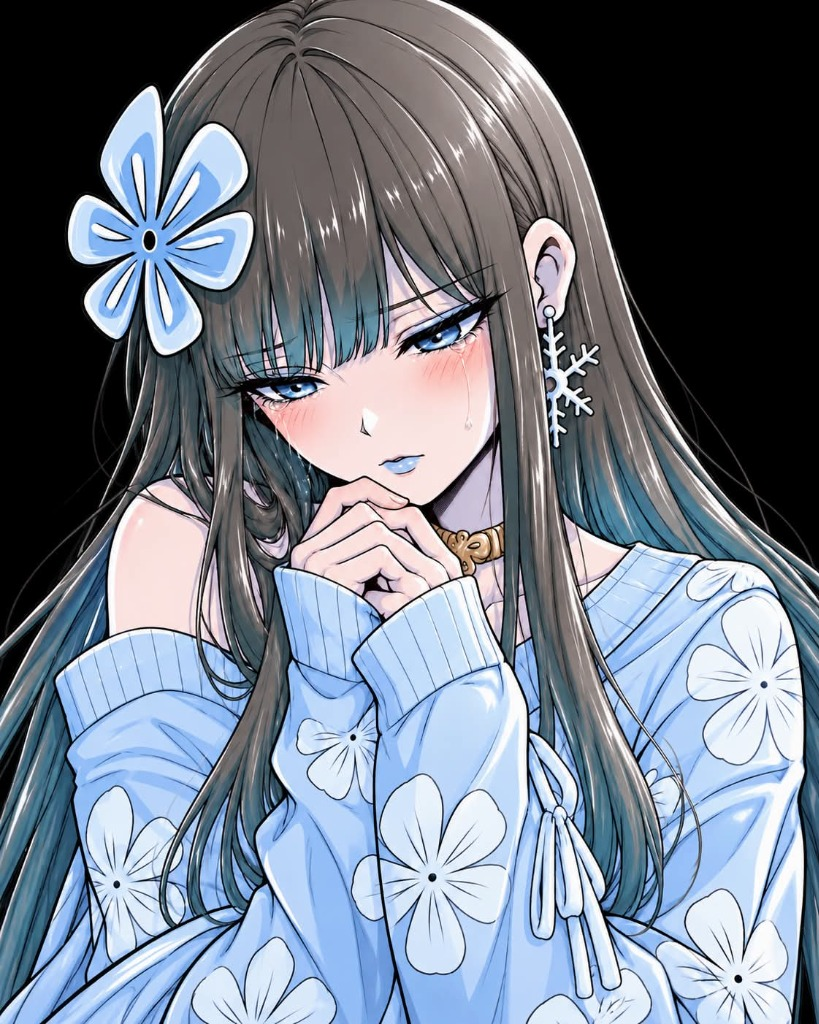
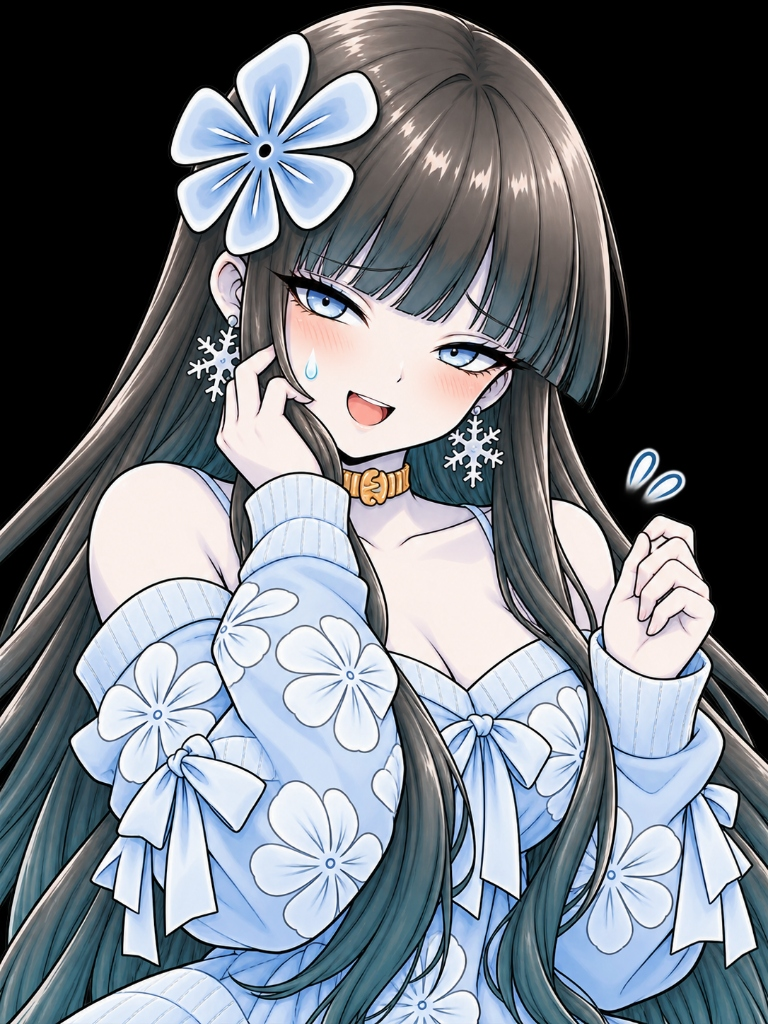
feat(tutorial): replace yuki tutorial guide sprites with 20 brand new expressive illustrations and map them to tutorial steps

diff --git a/static/game_v8.js b/static/game_v8.js
@@ -29759,19 +29759,45 @@ window.XLW_Tutorial = {
 
     const sprite = document.getElementById("xlwTutorialMentorSprite");
     if (sprite) {
-        const images = [
-            { src: "/static/card_images/yuki_tutorial_1.jpg", clip: "none", width: "120px", height: "160px", transform: "translateY(-10px)" },
-            { src: "/static/card_images/yuki_tutorial_2.jpg", clip: "none", width: "120px", height: "160px", transform: "translateY(-10px)" },
-            { src: "/static/card_images/yuki_tutorial_3.jpg", clip: "none", width: "120px", height: "160px", transform: "translateY(-10px)" },
-            { src: "/static/card_images/yuki_tutorial_4.jpg", clip: "none", width: "120px", height: "160px", transform: "translateY(-10px)" },
-            { src: "/static/card_images/yuki_tutorial_5.jpg", clip: "none", width: "120px", height: "160px", transform: "translateY(-10px)" },
-            { src: "/static/card_images/yuki_tutorial_6.jpg", clip: "none", width: "120px", height: "160px", transform: "translateY(-10px)" },
-            { src: "/static/card_images/yuki_tutorial_7.jpg", clip: "none", width: "120px", height: "160px", transform: "translateY(-10px)" },
-            { src: "/static/card_images/yuki_tutorial_8.jpg", clip: "none", width: "120px", height: "160px", transform: "translateY(-10px)" },
-            { src: "/static/card_images/yuki_tutorial_9.jpg", clip: "none", width: "120px", height: "160px", transform: "translateY(-10px)" },
-            { src: "/static/card_images/yuki_tutorial_10.jpg", clip: "none", width: "120px", height: "160px", transform: "translateY(-10px)" }
+        const images = [];
+        for (let i = 1; i <= 20; i++) {
+            images.push({
+                src: `/static/card_images/yuki_tutorial_${i}.jpg`,
+                clip: "none",
+                width: "120px",
+                height: "160px",
+                transform: "translateY(-10px)"
+            });
+        }
+        // 精心對應 20 張雪女引導員表情至 24 個教學步驟
+        const stepImageMap = [
+            1,  // 1. 歡迎來到星靈王新手導覽 (雙手合十/開朗歡迎)
+            7,  // 2. 場地介紹：前排戰線與後排戰線 (食指點指示範)
+            9,  // 3. 場地介紹：法術與結界區 (熱情揮手)
+            15, // 4. 場地介紹：墓地 (食指點下巴思考)
+            2,  // 5. 場地介紹：除外區 (手掌向前阻止注意)
+            10, // 6. 場地介紹：種族卡槽 (雙手環抱自信)
+            6,  // 7. 場地介紹：專屬牌組 (單手握拳充滿幹勁)
+            20, // 8. 資源：手牌 (伸出右手引導)
+            19, // 9. 對手手牌 (托腮注視敵情)
+            5,  // 10. 卡牌資訊與意義 (捧頰驚訝解密)
+            8,  // 11. 實戰演練：準備戰鬥 (雙手置胸雀躍)
+            13, // 實戰 Step 1：回合開始抽牌 (開槍手勢抽牌)
+            17, // 實戰 Step 2：選擇召喚單位 (回眸冷靜挑選)
+            3,  // 實戰 Step 3：普通召喚 (眨眼比V登場)
+            18, // 實戰 Step 4：準備獻祭召喚 (食指放唇前神祕)
+            4,  // 實戰 Step 5：選擇祭品 (抓腮滴汗/寶寶要被獻祭了)
+            2,  // 實戰 Step 6：確認獻祭 (堅定確認)
+            6,  // 實戰 Step 7：獻祭召喚上場 (禁衛軍威風握拳)
+            13, // 實戰 Step 8：進攻宣言 (指尖出擊)
+            11, // 實戰 Step 9：結束回合 (閉眼小憩/等待對手行動)
+            14, // 實戰 Step 10：戰鬥與勝負判定 (回眸觀察結算)
+            12, // 實戰 Step 11：星星戰線倒數 (比愛心守護戰線)
+            10, // 實戰 Step 12：Call Game (提早結束自信笑)
+            16  // 教學完成！(閉眼高興慶祝)
         ];
-        const imgData = images[this.currentStep % images.length];
+        const imgIndex = stepImageMap[this.currentStep] || ((this.currentStep % 20) + 1);
+        const imgData = images[imgIndex - 1] || images[0];
         sprite.src = imgData.src;
         sprite.style.clipPath = imgData.clip;
         sprite.style.width = imgData.width;

diff --git a/static/index.html b/static/index.html
@@ -319,7 +319,7 @@
   </script>
 
   <!-- 導入核心重構對戰引擎 -->
-  <script src="/static/game_v8.js?v=21.96-unified-defense-phase" charset="utf-8"></script>
+  <script src="/static/game_v8.js?v=21.97-new-yuki-tutorial-sprites" charset="utf-8"></script>
   </div>
 
   <!-- 選擇出戰牌組遮罩 (Pre-Battle Deck Selection Modal) -->
